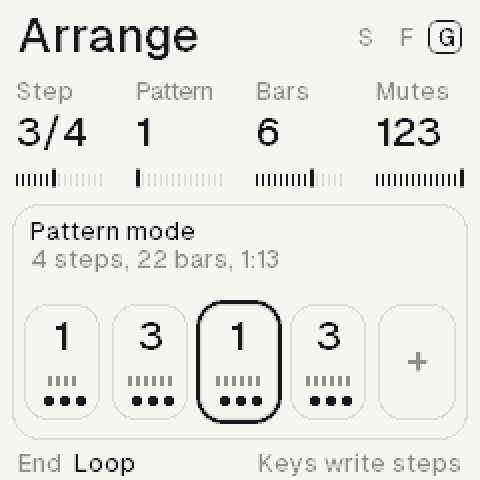
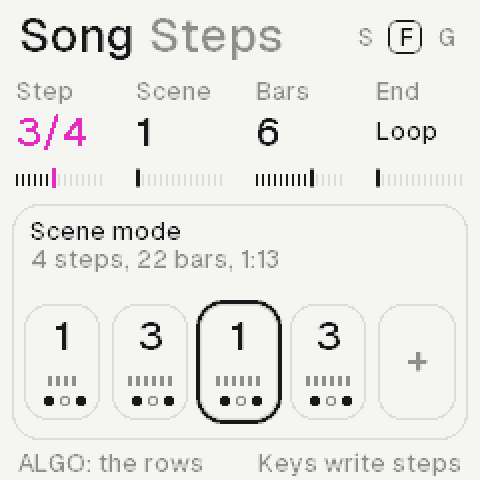
The repository and the site as the machine is now
README rewritten (it still said phase 0): the sound, scenes and songs, the chord
machine and harmony, saving, the links to play, install and read. The manual:
Scenes and patterns, the Song page, Song mode, harmony in Chords. The site's machine
card and screens say scenes. The plans: scenes, the song mode and harmony as built;
the samples engine only, in CLAUDE.md.

diff --git a/web/manual.html b/web/manual.html
@@ -41,8 +41,9 @@
       <a href="#rolls">The rolls</a>
       <a href="#chords">Chords</a>
       <a href="#writing">Writing progressions</a>
-      <a href="#patterns">Patterns</a>
-      <a href="#song">Song mode</a>
+      <a href="#patterns">Scenes and patterns</a>
+      <a href="#song">The Song page</a>
+      <a href="#songmode">Song mode</a>
       <a href="#saving">Saving</a>
       <p class="mgroup">Sound</p>
       <a href="#effects">Effects</a>
@@ -185,9 +186,10 @@
           <p><b>Voice row</b><span>Voicing, inversion (Auto moves least), spread, strum</span></p>
           <p><b>Key row</b><span>Key, mode, chord length, rhythm</span></p>
           <p><b>Keys row</b><span>Chord or All; the type: sevenths, triads, ninths, add9, sus2, sus4, 6/9, power</span></p>
-          <p><b>SEQ + ALGO</b><span>How this synth follows: chords, key, chord, root, free</span></p>
+          <p><b>SEQ + ALGO</b><span>How this synth follows: chords, key, chord, root, free, or another synth's harmony</span></p>
+          <p><b>SEQ + K2</b><span>The harmony's interval: an octave below to an octave above</span></p>
         </div>
-        <p class="note">The first song: the pad plays the chords, the piano follows the key, the third synth the root. The card's grey line names the synth that plays them.</p>
+        <p class="note">The first song: the pad plays the chords, the piano follows the key, the third synth the root. The card's grey line names the synth that plays them. In harmony with another synth, a synth leaves its roll and plays each note the other plays, moved on the scale; keys played on the lead are harmonized too.</p>
       </article>
 
       <article id="writing" data-group="Playing">
@@ -203,34 +205,48 @@
       </article>
 
       <article id="patterns" data-group="Playing">
-        <h1>Patterns</h1>
-        <p class="msub">Eight a song: each the three rolls and the progression. The sounds, the key and the tempo stay.</p>
-        <figure class="mfig"><img src="img/screens/16_home_held.png" alt="Patterns" width="240" height="240"><figcaption>HOME held: the one playing lit, an empty one grey.</figcaption></figure>
+        <h1>Scenes and patterns</h1>
+        <p class="msub">Each synth has eight patterns of its own. A scene says which one each synth plays, with the progression and the mutes.</p>
+        <figure class="mfig"><img src="img/screens/16_home_held.png" alt="Scenes" width="240" height="240"><figcaption>HOME held: the sixteen scenes, the one playing lit.</figcaption></figure>
         <div class="mt">
-          <p><b>HOME + white key</b><span>Pattern 1 to 8; playing, it waits for the bar</span></p>
-          <p><b>An empty one</b><span>Starts as a copy of the one playing</span></p>
-          <p><b>HOME + OCT+, a key</b><span>Copies the pattern playing there; over notes, the key twice</span></p>
-          <p><b>HOME + black key</b><span>Mutes synth 1, 2 or 3, and back</span></p>
-          <p><b>HOME + OCT&minus;</b><span>Twice: clears the pattern's three rolls</span></p>
+          <p><b>HOME + white key</b><span>Scene 1 to 16; playing, it waits for the bar</span></p>
+          <p><b>An empty scene</b><span>Starts as a copy of the one playing, its patterns shared</span></p>
+          <p><b>HOME + OCT+, a key</b><span>Copies the scene there; over one in use, the key twice</span></p>
+          <p><b>HOME + black key</b><span>Mutes synth 1, 2 or 3 in the scene, and back</span></p>
+          <p><b>HOME + OCT&minus;</b><span>Twice: clears the scene's three rolls</span></p>
         </div>
+        <p class="note">A variation: on the Song page's Scene row, OCT+ copies the selected synth's pattern into a new one, which the scene now plays. Change it there; the other scenes keep the first.</p>
       </article>
 
       <article id="song" data-group="Playing">
-        <h1>Song mode</h1>
-        <p class="msub">The patterns arranged into a piece: up to 128 steps, each a pattern for 1 to 8 bars.</p>
-        <figure class="mfig"><img src="img/screens/24_arrange.png" alt="Arrange" width="240" height="240"><figcaption>Arrange: the steps, the cursor's ring.</figcaption></figure>
-        <div class="mt">
-          <p><b>HOME + PLAY</b><span>Pattern mode or song mode, on any page</span></p>
-          <p><b>HOME + SEQ</b><span>Arrange: the song's steps</span></p>
-          <p><b>A pattern key</b><span>Stopped, writes a step and moves on</span></p>
-          <p><b>A black key</b><span>Mutes a synth on the step</span></p>
-          <p><b>K1 K2 K3 K4</b><span>The step, its pattern, its bars, its mutes</span></p>
-          <p><b>ALGORITHM</b><span>The end: loop, stop, fade out, or fade in and out</span></p>
-          <p><b>OCT&minus; OCT+</b><span>Deletes the step; copies it after itself</span></p>
-          <p><b>PLAY</b><span>Plays the song from the cursor</span></p>
-          <p><b>REC, PLAY</b><span>Records it live: switch patterns with HOME held</span></p>
+        <h1>The Song page</h1>
+        <p class="msub">HOME + SEQ. Two rows on ALGORITHM: the scene open, and the song's steps.</p>
+        <div class="mfigs">
+          <figure class="mfig"><img src="img/screens/23_arrange_scene.png" alt="Scene row" width="240" height="240"><figcaption>Scene: each synth's pattern and notes.</figcaption></figure>
+          <figure class="mfig"><img src="img/screens/24_arrange.png" alt="Steps row" width="240" height="240"><figcaption>Steps: the song, the cursor's ring.</figcaption></figure>
         </div>
-        <p class="note">Home's foot says which: the pattern playing, or where the song is. Picking a pattern live leaves the song.</p>
+        <div class="mt">
+          <p><b>Scene, K1 K2 K3</b><span>Each synth's pattern; playing, at the bar</span></p>
+          <p><b>Scene, K4</b><span>The scene's progression</span></p>
+          <p><b>Scene, a white key</b><span>The selected synth's pattern 1 to 8</span></p>
+          <p><b>Scene, OCT+ OCT&minus;</b><span>Copies the pattern into a new one; twice, clears it</span></p>
+          <p><b>Steps, a white key</b><span>Stopped, writes a step of that scene and moves on</span></p>
+          <p><b>Steps, K1 K2 K3 K4</b><span>The step, its scene, its bars (1 to 8), the end</span></p>
+          <p><b>Steps, OCT&minus; OCT+</b><span>Deletes the step; copies it after itself</span></p>
+        </div>
+      </article>
+
+      <article id="songmode" data-group="Playing">
+        <h1>Song mode</h1>
+        <p class="msub">A song is up to 128 steps, each a scene for 1 to 8 bars. Scene mode loops the scene open.</p>
+        <div class="mt">
+          <p><b>HOME + PLAY</b><span>Scene mode or song mode, on any page</span></p>
+          <p><b>PLAY</b><span>In song mode, the song; on the Song page, from the cursor</span></p>
+          <p><b>The end</b><span>Loop, stop, fade out, or fade in and out</span></p>
+          <p><b>REC, PLAY</b><span>On the Song page: records it live, switch scenes with HOME held</span></p>
+          <p><b>A scene picked</b><span>While the song plays: leaves the song for it</span></p>
+        </div>
+        <p class="note">Home's foot says which: the scene playing, or where the song is. HOME's light beats the bar in a song.</p>
       </article>
 
       <article id="saving" data-group="Playing">
@@ -340,6 +356,6 @@
   </footer>
 </main>
 <script src="app.js?v=12"></script>
-<script src="manual.js?v=6"></script>
+<script src="manual.js?v=7"></script>
 </body>
 </html>

diff --git a/web/index.html b/web/index.html
@@ -5,7 +5,7 @@
   <meta charset="utf-8">
   <meta name="viewport" content="width=device-width, initial-scale=1">
   <title>Demake</title>
-  <meta name="description" content="Demake: an ambient lofi machine for the M-VAVE FM-1. Three synths on its own recordings, a chord machine, tape, codec and rooms.">
+  <meta name="description" content="Demake: an ambient lofi machine for the M-VAVE FM-1. Three synths on its own recordings, scenes and songs, a chord machine, tape, codec and rooms.">
   <link rel="icon" href="img/icon.png">
   <link rel="stylesheet" href="style.css?v=16">
   <script>
@@ -76,9 +76,9 @@
     </div>
     <i class="link l1"></i>
     <div class="card c2 wide">
-      <p class="tt"><b>Songs</b><span>Saved in the machine</span></p>
-      <p class="big">14</p>
-      <p class="cap">Hold Save, pick one</p>
+      <p class="tt"><b>Scenes</b><span>A song, switched live</span></p>
+      <p class="big">16</p>
+      <p class="cap">Hold Home, press a key</p>
     </div>
     <div class="tiles" aria-hidden="true">
       <i class="on">1</i><i>2</i><i>3</i><i>4</i><i class="next">5</i><i>6</i><i>7</i><i>8</i>
@@ -144,7 +144,7 @@
       <button class="page on" data-src="img/screens/01_home.png" data-name="Home" data-b="6" data-say="The synths, the one sounding lit"><kbd>HOME</kbd><b>Home</b><span></span></button>
       <button class="page" data-src="img/screens/02_roll.png" data-name="Roll" data-b="9" data-say="A sequence, the cursor lit"><kbd>SEQ</kbd><b>Roll</b><span></span></button>
       <button class="page" data-src="img/screens/07_chord.png" data-name="Chord" data-b="8" data-say="The chord now, the progression"><kbd>ARP</kbd><b>Chord</b><span></span></button>
-      <button class="page" data-src="img/screens/16_home_held.png" data-name="Patterns" data-b="6" data-hold="2500" data-say="The playing one lit, the next a ring"><kbd>HOME</kbd><b>Patterns</b><span>held</span></button>
+      <button class="page" data-src="img/screens/16_home_held.png" data-name="Scenes" data-b="6" data-hold="2500" data-say="The playing one lit, the next a ring"><kbd>HOME</kbd><b>Scenes</b><span>held</span></button>
       <button class="page" data-src="img/screens/03_sound.png" data-name="Sound" data-b="4" data-say="The sound&#39;s shape, its loop"><kbd>EDIT</kbd><b>Sound</b><span></span></button>
       <button class="page" data-src="img/screens/04_filter.png" data-name="Filter" data-b="1" data-say="The response, its cutoff a point"><kbd>SEL</kbd><b>Filter</b><span></span></button>
       <button class="page" data-src="img/screens/05_amp.png" data-name="Amp" data-b="2" data-say="The envelope, its points round"><kbd>ENV</kbd><b>Amp</b><span></span></button>

diff --git a/docs/sound-design.md b/docs/sound-design.md
@@ -31,8 +31,8 @@ them.
   - a song-wide patina: a master tape stage, a tempo pump, a tape stop.
 - **Factory sounds:** today PRESETS steps through bare recordings. Each recording should come with a designed sound
   that the owner picks and names from sheets.
-- **The song mode** (built): the eight patterns arranged into a piece of up to 128 steps, an intro to an ending,
-  typed from the pattern keys or recorded live.
+- **Scenes and the song mode** (built): each synth's eight patterns, sixteen scenes that combine them, and a song of up
+  to 128 steps, typed from the scene keys or recorded live; one synth can harmonize another.
 - **The budget is the limit for the sound, not ideas:**
   - CPU0 is at 1818 in the heaviest case, past the proven 1650 a core. The calibration puts a core near 3470, but the
     FM-1 hasn't been measured.
@@ -81,43 +81,46 @@ them.
 
    Both come first in stage 3, because they are the cheapest sound design there is.
 
-## 3. Stage 2: the song mode (built, 2026-10-24)
+## 3. Stage 2: scenes, the song mode, harmony (built, 2026-10-24)
 
-The patterns become a piece. A song is an **arrangement** of up to **128 steps**, each a pattern for **1 to 8 bars**
-with its synths muted or not, and an end.
+Modelled, at the owner's ask, on how a pocket studio arranges its patterns: patterns per track, scenes that combine
+them, a song of scenes.
 
-- **Two modes, one switch:** HOME held + PLAY, on any page.
-  - In pattern mode, PLAY loops the pattern open, as before.
-  - In song mode, PLAY plays the steps in order, each switch on its bar.
-  - Home's foot always says which: "Pattern 2", "Song mode", or where the song is ("Song 3/12").
-  - HOME's light stays on in song mode and beats the bar while it plays.
-  - Picking a pattern live (HOME held + a key) leaves the song for that pattern.
-- **Arrange (HOME held + SEQ):** the steps as a strip of cards, five in view.
-  - Each card shows the pattern's number, its bars as ticks and its synths as dots (a ring when muted).
-  - The step playing is lit; the cursor is a ring.
-  - The title gives the mode and the song's length (steps, bars, minutes).
-- **Writing, as the keys write in the Roll:**
-  - Stopped, a pattern key (white keys 1–8) writes the step at the cursor and moves on, so a song is typed:
-    1 1 2 1 3 …
-  - Over an existing step, a key changes only its pattern.
-  - A black key mutes a synth on the step.
-  - K1 the step, K2 its pattern, K3 its bars (past the last step: the bars the next key writes), K4 its mutes.
-  - OCT− deletes the step, OCT+ copies it after itself.
-- **The end (ALGORITHM):**
-  - Loop;
-  - Stop;
-  - Fade out, the synths over the last step, the space's tails left to ring;
-  - Fades, in over the first step and out over the last.
-- **Recorded live:** on Arrange, REC armed and PLAY; then switch patterns and mute synths with HOME held, as when
-  performing.
-  - Each bar is counted to the pattern and mutes playing; a change closes the step, and a step over 8 bars goes on
-    in the next.
-  - Stopping ends the take, which replaces the song from the cursor and turns song mode on.
-  - The keys played during a take aren't recorded into the rolls.
-- **Copying patterns:** HOME held, OCT+, then a pattern key: the pattern playing is copied there. Over a pattern
-  with notes, press the key twice. An empty pattern picked with HOME held still starts as a copy.
-- **Saved with the song** (record version 3, 3 bytes a step; older songs load with no arrangement).
-- **Cost:** none for the sound beyond the fade, applied once a block.
+- **Patterns per synth.**
+  - Each synth has eight patterns of its own: its rolls, up to 64 steps each.
+  - The Roll's head names the one it edits.
+- **Scenes.**
+  - Sixteen scenes, on the sixteen white keys with HOME held, switched on the bar.
+  - A scene says which pattern each synth plays, with the progression and which synths are muted.
+  - An empty scene picked starts as a copy of the one playing, its patterns shared.
+  - A variation is one synth's pattern changed in it (below).
+  - HOME held + OCT+, then a scene key, copies the scene there; over one in use, the key twice.
+- **The Song page** (HOME held + SEQ), two rows on ALGORITHM:
+  - **Scene:** the scene open as three lanes, each synth's pattern and its notes.
+    - K1–K3 each synth's pattern (at the bar when playing); K4 the progression.
+    - White keys 1–8 are the selected synth's pattern; black keys mute.
+    - OCT+ copies the selected synth's pattern into its next empty one, now the scene's: a variation in one press.
+      OCT− twice clears it.
+  - **Steps:** the song, up to 128 steps, each a scene for 1–8 bars.
+    - Stopped, a scene key writes a step and moves on.
+    - K1 the step, K2 its scene, K3 its bars, K4 the end.
+    - OCT− deletes a step, OCT+ copies it.
+- **Two modes, one switch:** HOME held + PLAY, scene mode or song mode, on any page.
+  - Home's foot says which: "Scene 3", "Song mode", "Song 3/12".
+  - HOME's light beats the bar in a song.
+  - Picking a scene live leaves the song.
+- **The end:** Loop, Stop, Fade out (the synths fade over the last step, the space's tails ring), or Fades (in over
+  the first step too).
+- **Recorded live:** on the Song page, REC and PLAY, then switch scenes with HOME held. Each bar is counted to the
+  scene playing; stopping ends the take and turns song mode on.
+- **Harmony**, after the sequencers that harmonize one track from another:
+  - FOLLOW (SEQ held + ALGORITHM) gains Harmony of 1, 2 and 3.
+  - The synth leaves its roll and plays each note its lead plays, moved by its interval in scale steps, on the scale
+    as the chord bends it.
+  - The interval is SEQ held + K2, an octave below to an octave above, a third above at first.
+  - The lead's keys are harmonized live.
+- **Saved with the song** (record version 4, which converts older songs: a pattern of three rolls becomes a scene).
+- **Cost:** the sequencer's clock only, and the fade once a block.
 
 ## 4. Stage 3: the sound itself
 
@@ -208,7 +211,7 @@ Today a sound is a recording and whatever the synth was set to. Instead:
 | Stage | Contents | Ends with |
 | --- | --- | --- |
 | 1 | measure the FM-1; balance the cores; free RAM | the two load numbers; the heaviest case at ~1500 a core |
-| 2 | the song mode: Arrange, its steps, live recording, the endings (built) | a song played start to end on the FM-1; a build |
+| 2 | scenes and per-synth patterns, the Song page, the song mode, harmony (built) | a song played start to end on the FM-1; a build |
 | 3 | velocity, the LFO, layer, glide, grit, short loops, keytrack and drive | WAVs; a build |
 | 4 | Warm, Distort, Vinyl, Radio, Dictaphone, Ensemble, Phaser, Flanger, Tremolo | WAVs of each one's corners; a build |
 | 5 | Shimmer, Freeze, Ping-pong, Filtered, Reverse, Swell, Grains+, Plate if the RAM allows | WAVs; a build |

diff --git a/README.md b/README.md
@@ -1,23 +1,55 @@
 # Demake synth
 
-An ambient lofi machine for the M-VAVE FM-1: three synths, each with a piano roll and a layer from the owner's own
-samples, eight patterns a song to switch between live, a chord machine for melancholic progressions, and a chain of
-colour, media, motion and space effects per synth. It is voiced like a late-90s console demake, and drawn in Geist
-with Kiloy's shapes: four greys, cards, and one thermal light, dithered, for what is lit.
+An ambient lofi machine for the M-VAVE FM-1, built on its own recordings: 64 sounds made with pedals and kept as
+they were, played by three synths. Each synth has its own piano roll, its own patterns and a chain of lofi effects.
+Scenes combine the synths' patterns, a song arranges the scenes, and a chord machine leads them all. It is voiced
+like a late-90s console demake, and drawn in Geist with Kiloy's shapes: four greys, cards, and one thermal light,
+dithered, for what is lit.
 
-**Status: phase 0, the groundwork.** The plan is [docs/plan.md](docs/plan.md): the effects and their CPU budget,
-the engines and the sample format, the workflow on the FM-1's controls, the chord machine, the screen, the website,
-and the build order. Built so far: the FM-1 platform and package, the core's screen shell (every page as cards, the
-thermal light, Geist, the text audit), a sine a key, the browser build with its page, and a bench build to measure the
-FM-1's load against the host's instruction counts.
+- **Play it in the browser:** [inigohernandez.github.io/demake-synth](https://inigohernandez.github.io/demake-synth/)
+  (the same core as the firmware).
+- **Install it:** [the installer page](https://inigohernandez.github.io/demake-synth/install.html), over USB from
+  Chrome.
+- **Read the manual:** [the manual](https://inigohernandez.github.io/demake-synth/manual.html).
+
+**Status: Demake 0.2** (FM-1_967), on the install page.
+
+## What it does
+
+- **The sound.**
+  - The 64 recordings are built in, like a rompler, with nothing to load.
+  - A filter with eight shapes, and an envelope.
+  - Per synth: Colour (saturate, crush, codec, noise), Media (tape, cassette, VHS) and Motion (chorus, vibrato,
+    drift).
+  - Shared spaces: six reverbs (room, hall, space, haze, bloom, lofi), and a tape echo or grains.
+- **The music.**
+  - Three synths, each with a piano roll of up to 64 steps and eight patterns of its own.
+  - Sixteen scenes say which pattern each synth plays, and switch on the bar with HOME held and a white key.
+  - A song arranges the scenes, up to 128 steps of 1 to 8 bars, typed in or recorded live.
+- **The harmony.**
+  - A chord machine with sixteen progressions and four of your own, voicings, strum and rhythms.
+  - The keys play chords on any page: sevenths, triads, ninths, add9, sus2, sus4, 6/9 or power.
+  - Each synth can play the chords, follow the key, the chord or the root, or harmonize another synth's notes.
+- **The rest.**
+  - Fourteen songs and 32 of your own sounds are saved on the FM-1.
+  - Each start shows one of four pixel landscapes, and Home keeps one moving while you play.
+
+## Build
 
 ```bash
-sh tools/check.sh                              # warnings, soft-float symbols, sanitizers, the tour's text audit, wasm
+sh tools/check.sh                              # warnings, soft-float symbols, sanitizers, the self-test and the tour's text audit, wasm
 sh web/build.sh                                # web/dmk.wasm; serve web/ to play it in the browser
-.venv/bin/python tools/fm1/build.py            # build/fm1/demake.fwsc (identity FM-1_965); --diag, --bench
+.venv/bin/python tools/fm1/build.py            # build/fm1/demake.fwsc; --release 0.Y, --diag (the load meter), --bench
 ```
 
-It will run on the open FM-1 platform of CS-1 and Felucca, as MONO2K does, so it is GPL-3.0-only (see
-[LICENSE](LICENSE)). The credits and the notices of every source it uses will live in `LICENSES/`.
+The core is C99 and integer only (`firmware/src`, a unity build). The host harness (`host/dmk_host.c`) runs the
+self-test, renders every screen as a PNG and counts the CPU. The plans:
+- [docs/plan.md](docs/plan.md): the whole design and every decision;
+- [docs/sound-design.md](docs/sound-design.md): the next stages for the sound and the song.
 
-By Sequencist ([GitHub](https://github.com/InigoHernandez), [Bandcamp](https://sequencist.bandcamp.com)).
+It runs on the open FM-1 platform of CS-1 and Felucca, as MONO2K does, so it is GPL-3.0-only (see
+[LICENSE](LICENSE)). The notices of every source it uses are in `LICENSES/` and `firmware/fm1/LICENSES/`. The
+recordings are the author's own.
+
+By Sequencist ([GitHub](https://github.com/InigoHernandez), [Bandcamp](https://sequencist.bandcamp.com),
+[Ko-fi](https://ko-fi.com/sequencist)).

diff --git a/CLAUDE.md b/CLAUDE.md
@@ -1,7 +1,8 @@
 # Demake
 
-An ambient lofi machine for the M-VAVE FM-1: three synths, a piano roll each, a chord machine, eight patterns a
-song, a chain of colour, media, motion and space effects per synth. The plan, and every decision so far, is
+An ambient lofi machine for the M-VAVE FM-1 on the owner's 64 recordings (the samples engine only): three synths, a
+piano roll and eight patterns each, sixteen scenes and a song of them, a chord machine and harmony, a chain of
+colour, media, motion and space effects per synth, a store of songs and sounds. The plan, and every decision so far, is
 `docs/plan.md`; read it first. The design rules are its 5.1, the build order its section 7.
 
 ## Hard rules
@@ -16,6 +17,7 @@ song, a chain of colour, media, motion and space effects per synth. The plan, an
   `Source/` only; float), hugelton/Felucca (GPL-3.0, integer) and Felucca-Engines (MIT). Keep their notices in
   `LICENSES/` when code from them lands.
 - The samples are the owner's own recordings (`../Demake/sample sounds/`); every factory sound gets a new short name.
+  Demake plays only them: no synth engines (the owner, 2026-10-24).
 - **The design (plan 5 and 6), for the screen, the emulator and the website:** Geist for all text (`assets/fonts/`,
   SIL OFL 1.1) in sentence case, names as written (FX, LFO, Am(add9)); Kiloy only in the wordmark and its D, never
   committed as a font (only its renders: `tools/gen_art.py`, the bitmap FL face); Kiloy's shapes in the UI (corners
@@ -29,8 +31,8 @@ song, a chain of colour, media, motion and space effects per synth. The plan, an
 ## Build, test
 
 - Generators: `.venv/bin/python tools/gen_tables.py`, `tools/gen_samples.py [--wav build/samples]` (the owner's 64
-  WAVs from `DMK_SAMPLES` into `firmware/gen/dmk_samples.h` and `assets/samples/PROCESSING.md`; `DMK_SAMPLES_N`
-  picks how many are built in: 32, bank A, on the FM-1, all 64 elsewhere), `tools/gen_font.py [--sheet build/fonts.png]`,
+  WAVs from `DMK_SAMPLES` into `firmware/gen/dmk_samples.h` and `assets/samples/PROCESSING.md`; all 64 on every
+  build), `tools/gen_font.py [--sheet build/fonts.png]`,
   `tools/gen_art.py` (the site's art, wordmark, D, icon, plate, band, seal and the screens' frames; Kiloy from
   `DMK_KILOY`).
 - Host: `cc -std=c99 -D_DARWIN_C_SOURCE -O2 -Wall -Wextra -Wno-unused-function -Ifirmware/src -Ifirmware/gen -o

diff --git a/docs/plan.md b/docs/plan.md
@@ -465,6 +465,10 @@ its end. SNAP is on by default, and the ROLL then shows only the scale's rows (G
 
 #### 3.6.1 Patterns and performance
 
+*Built differently (2026-10-24, the owner's ask): each synth has eight patterns of its own, and sixteen scenes combine
+them, on the white keys with HOME held; a song arranges the scenes. See `docs/sound-design.md` section 3. The table
+below is the first design.*
+
 A song has **8 patterns**. A pattern holds the three synths' sequences and a chord progression. The sounds, the
 effects, the key and the tempo belong to the song, so a switch changes the notes and the harmony, never the timbre:
 seamless while playing.
